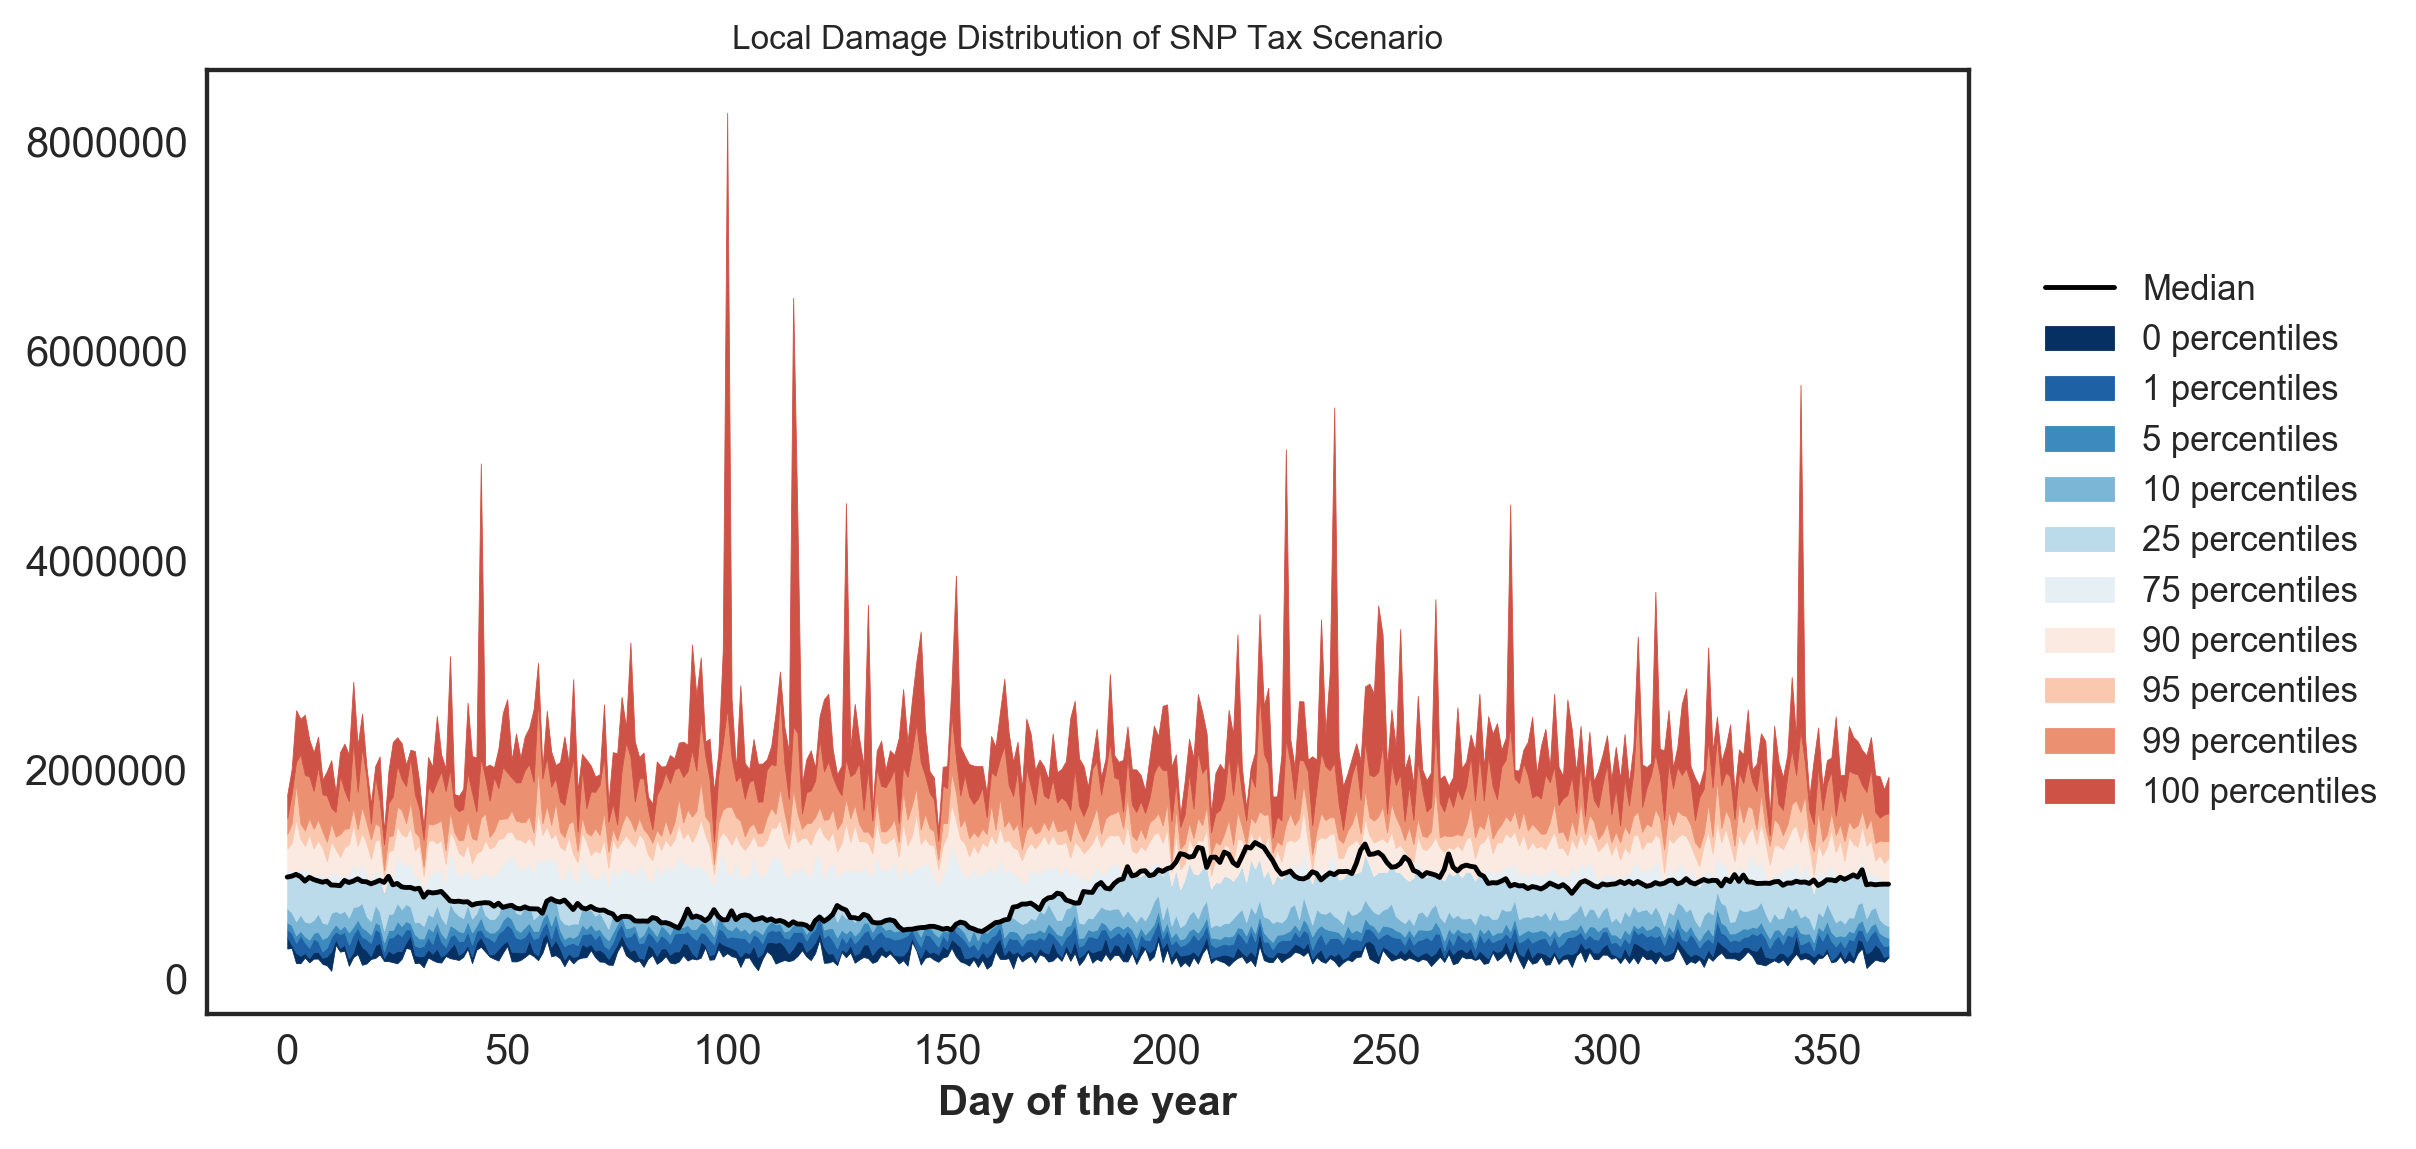
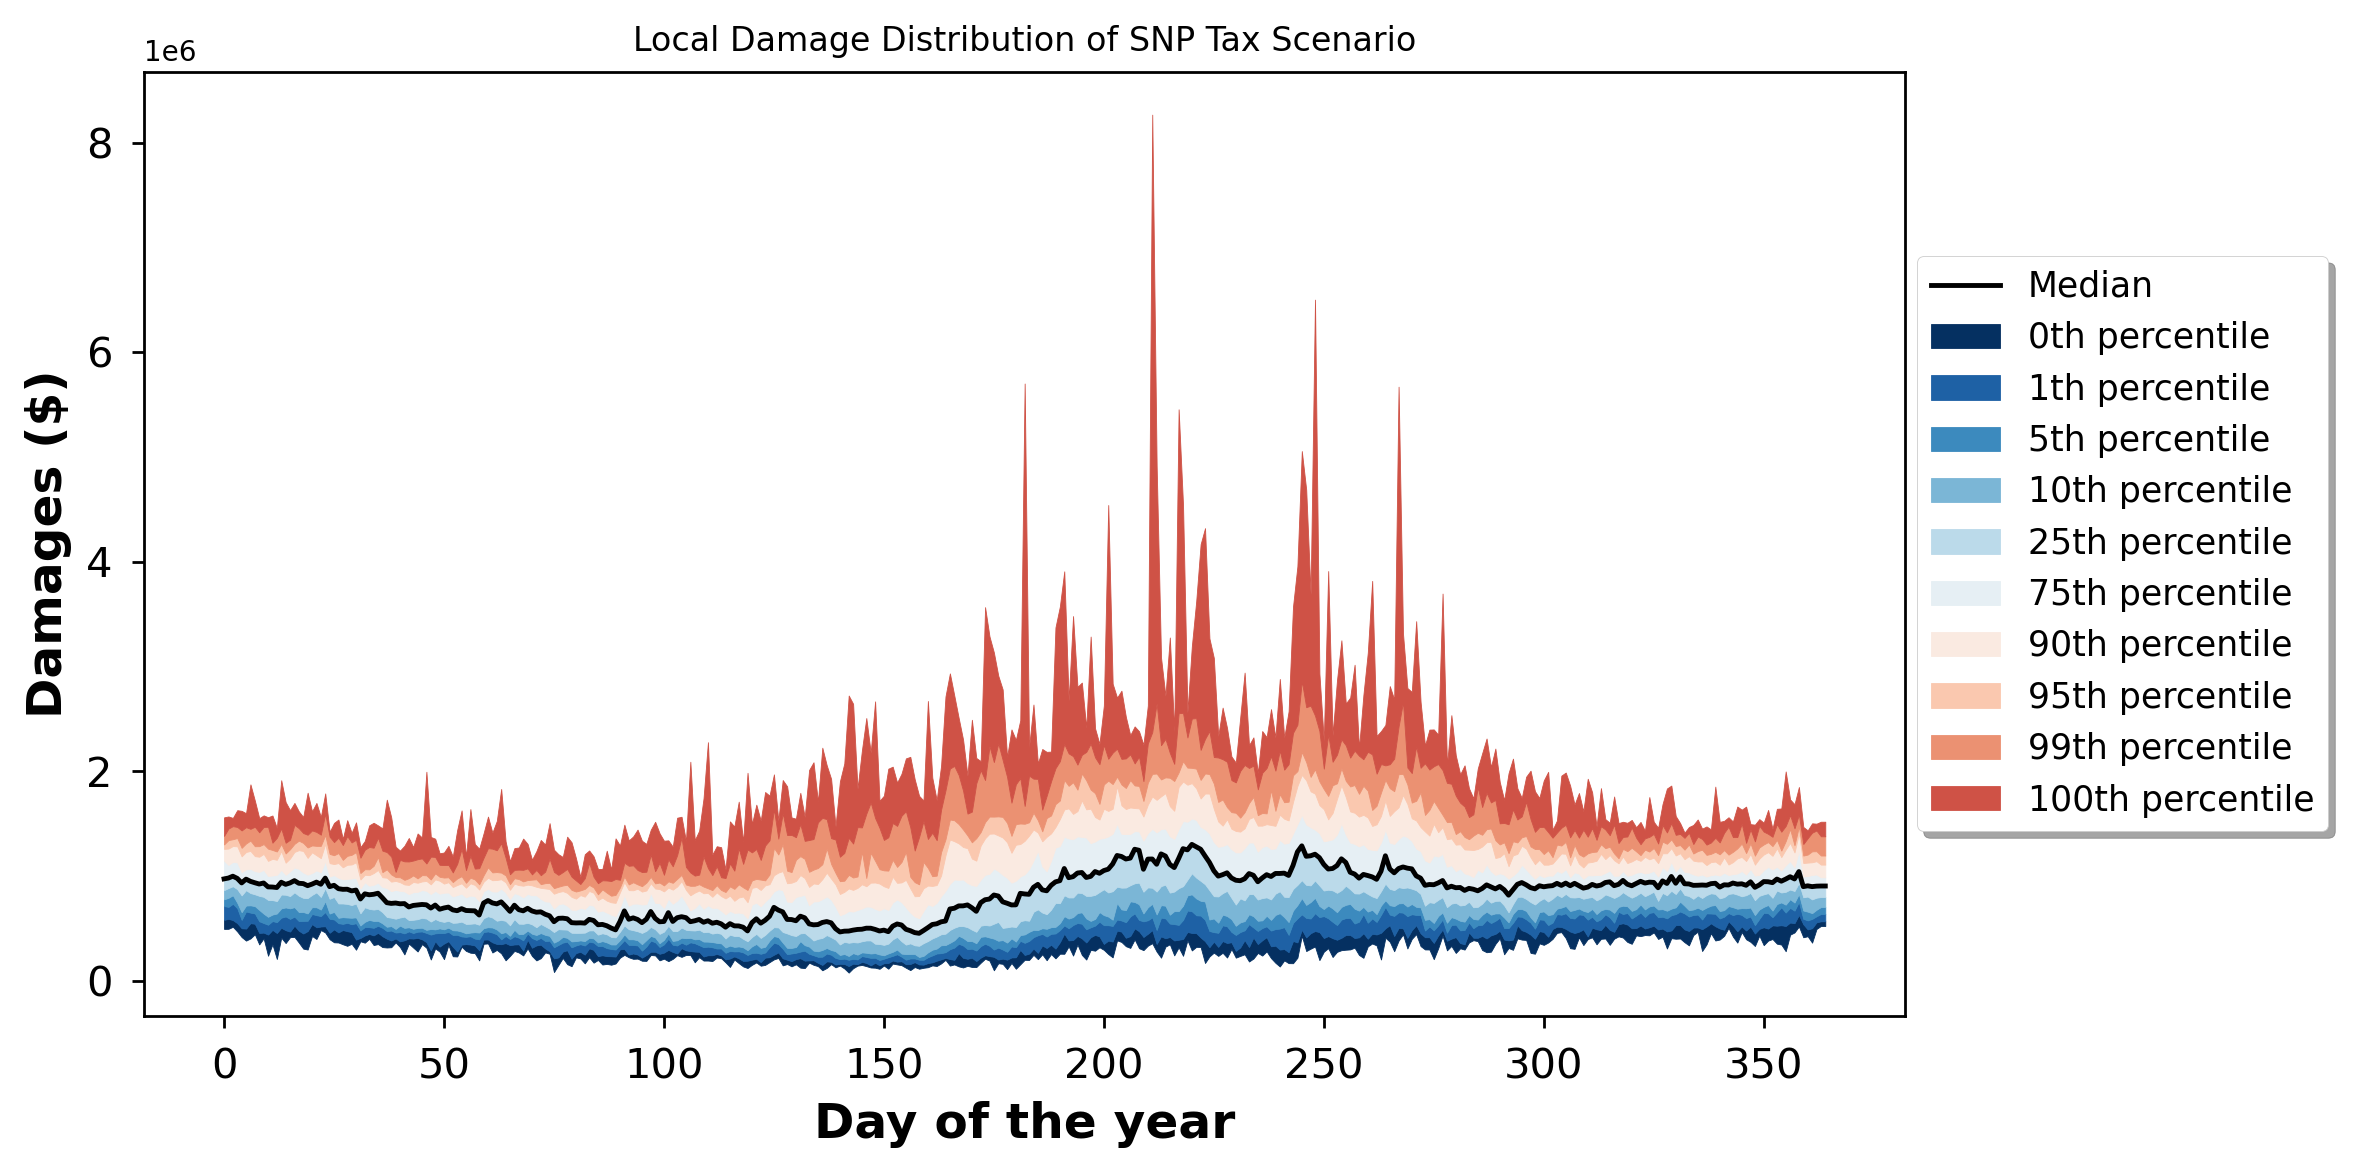
prob plot update

diff --git a/Post Process/Distribution.py b/Post Process/Distribution.py
@@ -1,4 +1,5 @@
 # -*- coding: utf-8 -*-
+
 """
 Created on Mon Jan 11 14:08:02 2021
 
@@ -11,44 +12,38 @@ import numpy as np
 import matplotlib.pyplot as plt
 
 
+
 def process(data):
 
     means = np.median(data, axis= 0)
-    std=data.std(0)
-    perc=np.zeros((2,365))
-    for i in range(0,365):
-    
-        perc[0,i]=means[i]-np.percentile(data[i,:],25)
-        perc[1,i]=np.percentile(data[i,:],75)-means[i]
-    
     
     ######    # colormap = cm.RdBu_r # change this for the colormap of choice
     colormap = plt.cm.RdBu_r # change this for the colormap of choice
     percentiles = [0,1,5,10,25,50,75,90,95,99,100]
     
-    half = int((len(percentiles)-1)/2)
     L = int(len(percentiles))
     
     SDist=np.zeros((365,L))
     for i in range(L):
         for t in range(365):
-          SDist[t,i]=np.percentile(data[t,:],percentiles[i])
+          SDist[t,i]=np.percentile(data[:,t],percentiles[i])
     SDist[:,5]=means
     
-    return half,percentiles,colormap,SDist,std
+    half = int((len(percentiles)-1)/2)
+    
+    return half,percentiles,colormap,SDist
 
-###############################################################################
+# ###############################################################################
 damages = pd.read_csv('Results/SNP_damage.csv')
 scenarios = ['all_tax' , 'CO2', 'no_tax', 'SNP']
 scenarios_label = ['All' , 'CO2' , 'No', 'SNP']
-
 
 
 for sen in scenarios:
     
     hist = np.array(damages[sen]).reshape((500,365))
     
-    half,percentiles,colormap,SDist,std=process(hist)
+    half,percentiles,colormap,SDist = process(hist)
     
     # plt.rcParams['font.weight']='bold'
     plt.figure(figsize=(20,5))
@@ -57,15 +52,17 @@ for sen in scenarios:
     ax1.set_facecolor('white')
     plt.style.use('seaborn-paper')
     ax1.plot(np.arange(0,365,1), SDist[:,half],color='black',label='Median')
+   
     for i in range(len(percentiles)-1):
     
         if i <5:
-            index= str(percentiles[i]) + ' percentiles'
+            index= str(percentiles[i]) + 'th percentile'
         else:
-            index= str(percentiles[i+1]) + ' percentiles'
+            index= str(percentiles[i+1]) + 'th percentile'
         ax1.fill_between(np.arange(0,365,1), SDist[:,i],SDist[:,i+1],color=colormap(i/len(percentiles)),label= index)
     
-    ax1.set_xlabel('Day of the year', fontsize=12,fontweight='bold')
+    ax1.set_xlabel('Day of the year', fontsize=14,fontweight='bold')
+    ax1.set_ylabel('Damages ($)',fontsize=14,fontweight='bold')
     ax1.set_visible(True)
     ax1.legend(loc='right', bbox_to_anchor=(1.25, 0.5),ncol=1, fancybox=True, shadow=True,fontsize='medium')
     plt.style.use('seaborn-paper')
